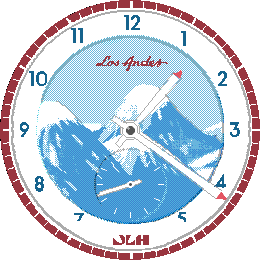
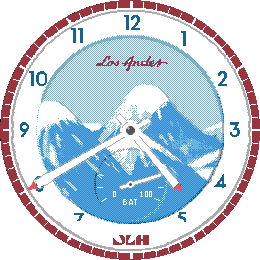
emery support

diff --git a/src/c/main.c b/src/c/main.c
@@ -14,7 +14,11 @@ static GBitmap *s_background;
 static GBitmap *s_battery_icon;
 
 // Fixed pivot for the seconds hand / battery display (not the watch center)
+#ifdef PBL_PLATFORM_EMERY
+static const GPoint SEC_CENTER = {100, 155};
+#else
 static const GPoint SEC_CENTER = {130, 184};
+#endif
 
 // true  → seconds hand + tick marks
 // false → battery indicator (9 segments, 3 zones: red / dark-blue / white)
@@ -38,6 +42,16 @@ static int32_t   s_anim_min_start  = 0;
 static GPath *s_hour_body;
 static GPath *s_hour_tip;
 
+#ifdef PBL_PLATFORM_EMERY
+// tip at -65 → exactly 35px from lateral border (100 - 65 = 35px)
+static GPoint s_hour_body_pts[] = {
+    { 3,  -9},   { 5, -59},   {-5, -59},   {-3,  -9},
+    {-3,   9},   {-3,  20},   { 3,  20},   { 3,   9},
+};
+static GPoint s_hour_tip_pts[] = {
+    { 6, -59},   { 3, -63},   { 2, -65},   {-2, -65},   {-3, -63},   {-6, -59},
+};
+#else
 static GPoint s_hour_body_pts[] = {
     { 3,  -9},   { 5, -72},   {-5, -72},   {-3,  -9},
     {-3,   9},   {-3,  20},   { 3,  20},   { 3,   9},
@@ -45,11 +59,22 @@ static GPoint s_hour_body_pts[] = {
 static GPoint s_hour_tip_pts[] = {
     { 6, -72},   { 3, -77},   { 2, -80},   {-2, -80},   {-3, -77},   {-6, -72},
 };
+#endif
 
 // ── Minute hand ────────────────────────────────────────────────────────────
 static GPath *s_min_body;
 static GPath *s_min_tip;
 
+#ifdef PBL_PLATFORM_EMERY
+// tip at -90 → exactly 10px from lateral border (100 - 90 = 10px)
+static GPoint s_min_body_pts[] = {
+    { 2,  -5},   { 4, -82},   {-4, -82},   {-2,  -5},
+    {-2,   5},   {-2,  16},   { 2,  16},   { 2,   5},
+};
+static GPoint s_min_tip_pts[] = {
+    { 4, -82},   { 2, -87},   { 1, -90},   {-1, -90},   {-2, -87},   {-4, -82},
+};
+#else
 static GPoint s_min_body_pts[] = {
     { 3,  -7},   { 5,-109},   {-5,-109},   {-3,  -7},
     {-3,   7},   {-3,  22},   { 3,  22},   { 3,   7},
@@ -57,6 +82,7 @@ static GPoint s_min_body_pts[] = {
 static GPoint s_min_tip_pts[] = {
     { 6,-109},   { 3,-115},   { 2,-119},   {-2,-119},   {-3,-115},   {-6,-109},
 };
+#endif
 
 // ── Seconds hand ───────────────────────────────────────────────────────────
 // Drawn with stroke_width lines — reliable at all rotation angles.
@@ -134,20 +160,35 @@ static void outline_hand(GContext *ctx, int32_t angle,
 }
 
 static void draw_hour_hand(GContext *ctx, int32_t angle) {
+#ifdef PBL_PLATFORM_EMERY
+    static const GPoint segs[] = {
+        { 3, -9}, { 5,-59},   {-5,-59}, {-3, -9},
+        {-3,  9}, {-3, 20},   {-3, 20}, { 3, 20},   { 3, 20}, { 3,  9},
+    };
+#else
     static const GPoint segs[] = {
         { 3, -9}, { 5,-72},   {-5,-72}, {-3, -9},
         {-3,  9}, {-3, 20},   {-3, 20}, { 3, 20},   { 3, 20}, { 3,  9},
     };
+#endif
     outline_hand(ctx, angle, 10, 17 * TRIG_MAX_ANGLE / 360, segs, ARRAY_LENGTH(segs));
     fill_hand(ctx, angle, s_hour_body, s_hour_tip, 10);
 }
 
 static void draw_min_hand(GContext *ctx, int32_t angle) {
+#ifdef PBL_PLATFORM_EMERY
+    static const GPoint segs[] = {
+        { 2, -5}, { 4, -82},  {-4, -82},{-2,  -5},
+        {-2,  5}, {-2,  16},  {-2, 16}, { 2,  16},  { 2, 16}, { 2,  5},
+    };
+    outline_hand(ctx, angle, 8, 15 * TRIG_MAX_ANGLE / 360, segs, ARRAY_LENGTH(segs));
+#else
     static const GPoint segs[] = {
         { 3, -7}, { 5,-109},  {-5,-109},{-3,  -7},
         {-3,  7}, {-3,  22},  {-3, 22}, { 3,  22},  { 3, 22}, { 3,  7},
     };
     outline_hand(ctx, angle, 8, 22 * TRIG_MAX_ANGLE / 360, segs, ARRAY_LENGTH(segs));
+#endif
     fill_hand(ctx, angle, s_min_body, s_min_tip, 8);
 }
 
@@ -196,17 +237,18 @@ static void draw_battery_display(GContext *ctx) {
     int32_t span  = TRIG_MAX_ANGLE / 2;             // 180°
     int32_t step  = -(int32_t)(span / 10);          // -18° per segment (CCW)
 
-    // 11 white segments
+    // 11 white tick marks — inner radius matches pointer tip (r=34) exactly,
+    // so the pointer tip pixel == tick inner pixel for zero angular misalignment.
     graphics_context_set_stroke_color(ctx, GColorWhite);
     graphics_context_set_stroke_width(ctx, 1);
     for (int b = 0; b < 11; b++) {
         int32_t a  = (start + b * step + TRIG_MAX_ANGLE) % TRIG_MAX_ANGLE;
         int32_t sn = sin_lookup(a);
         int32_t cn = cos_lookup(a);
-        GPoint inner = { SEC_CENTER.x + trig_round(sn * 28),
-                         SEC_CENTER.y - trig_round(cn * 28) };
-        GPoint outer = { SEC_CENTER.x + trig_round(sn * 33),
-                         SEC_CENTER.y - trig_round(cn * 33) };
+        GPoint inner = { SEC_CENTER.x + trig_round(sn * 34),
+                         SEC_CENTER.y - trig_round(cn * 34) };
+        GPoint outer = { SEC_CENTER.x + trig_round(sn * 40),
+                         SEC_CENTER.y - trig_round(cn * 40) };
         graphics_draw_line(ctx, inner, outer);
     }
 
@@ -226,8 +268,9 @@ static void draw_battery_display(GContext *ctx) {
                            GTextOverflowModeWordWrap, GTextAlignmentCenter, NULL);
     }
 
-    // Pointer: 0% → 270°, 100% → 90°, going CCW through bottom
-    int32_t bat_angle = (start - (int32_t)pct * span / 100 + TRIG_MAX_ANGLE) % TRIG_MAX_ANGLE;
+    // Pointer: uses the exact same formula as the segments so it always aligns perfectly.
+    // Pebble reports pct in multiples of 10, so pct/10 gives the segment index (0-10).
+    int32_t bat_angle = (start + (pct / 10) * step + TRIG_MAX_ANGLE) % TRIG_MAX_ANGLE;
     draw_sec_hand(ctx, bat_angle);
 
     // Battery icon on top of the boss (drawn last in this layer, still below hour/min hands)
